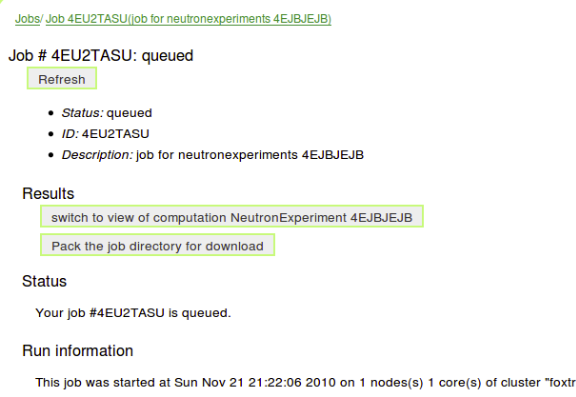
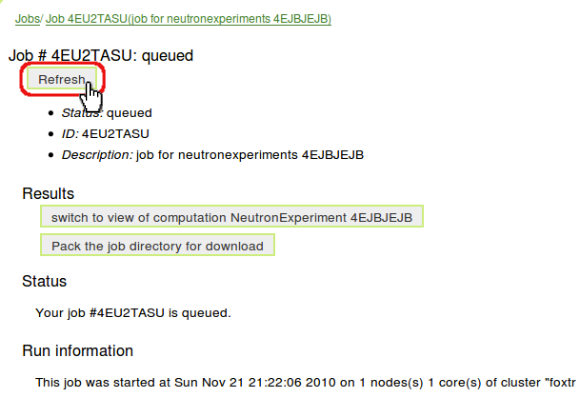
user guide/"experiments" tab: finished a tutorial of creating and running the simplest experiment
git-svn-id: svn://danse.us/VNET/vnf/branches/beta-useluban/vnfb@3294 056da4b6-1853-4d91-9082-68a8d0adb2e4

Changed region(s): [[0.0312, 0.1511, 0.1875, 0.3023]]

diff --git a/docs/UserGuide-experiments.rst b/docs/UserGuide-experiments.rst
@@ -130,10 +130,47 @@ You can then minimize the summary by clicking on the
 arrow-up icon to collapse the document, and we end up with:
 
 .. image:: shots/experiments/experiment-finish-prepare-to-submit.png
-   :width: 450px
+   :width: 400px
 
 Click the "create job" button allows us to create
 a computation job  for this experiment:
 
 .. image:: shots/experiments/job-submission.png
-   :width: 400px
+   :width: 300px
+
+Click the "submit" button will submit job to the job queue
+at the computing server you have chosen:
+
+.. image:: shots/experiments/job-queued.png
+   :width: 450px
+
+You will see the job is queued (in some cases, it might be 
+already "running", or even "finished").
+Click the "Refresh" button will update the status of your job.
+For this example, your job should be done fairly quickly.
+If not, please wait for email alerts from the vnf system
+for change of status. Anyway, after a while, your job should be 
+done:
+
+.. image:: shots/experiments/job-finished.png
+   :width: 450px
+
+Click the "switch to view of computation..." button in the "Results" section
+will bring you to a view of the experiment:
+
+.. image:: shots/experiments/exp-view-after-job-finished.png
+
+
+Expand the "results" section, we will see VNF retrieving results
+for you, and for this particular experiment, one histogram panel will
+show up inside the results panel:
+
+.. image:: shots/experiments/exp-view-expand-results-panel.png
+
+
+Expand this only histogram panel there you will see a plot!
+
+.. image:: shots/experiments/exp-view-expand-histogram-inside-results-panel.png
+
+And you can download the data for the plot by clicking the 
+"download data" link.
